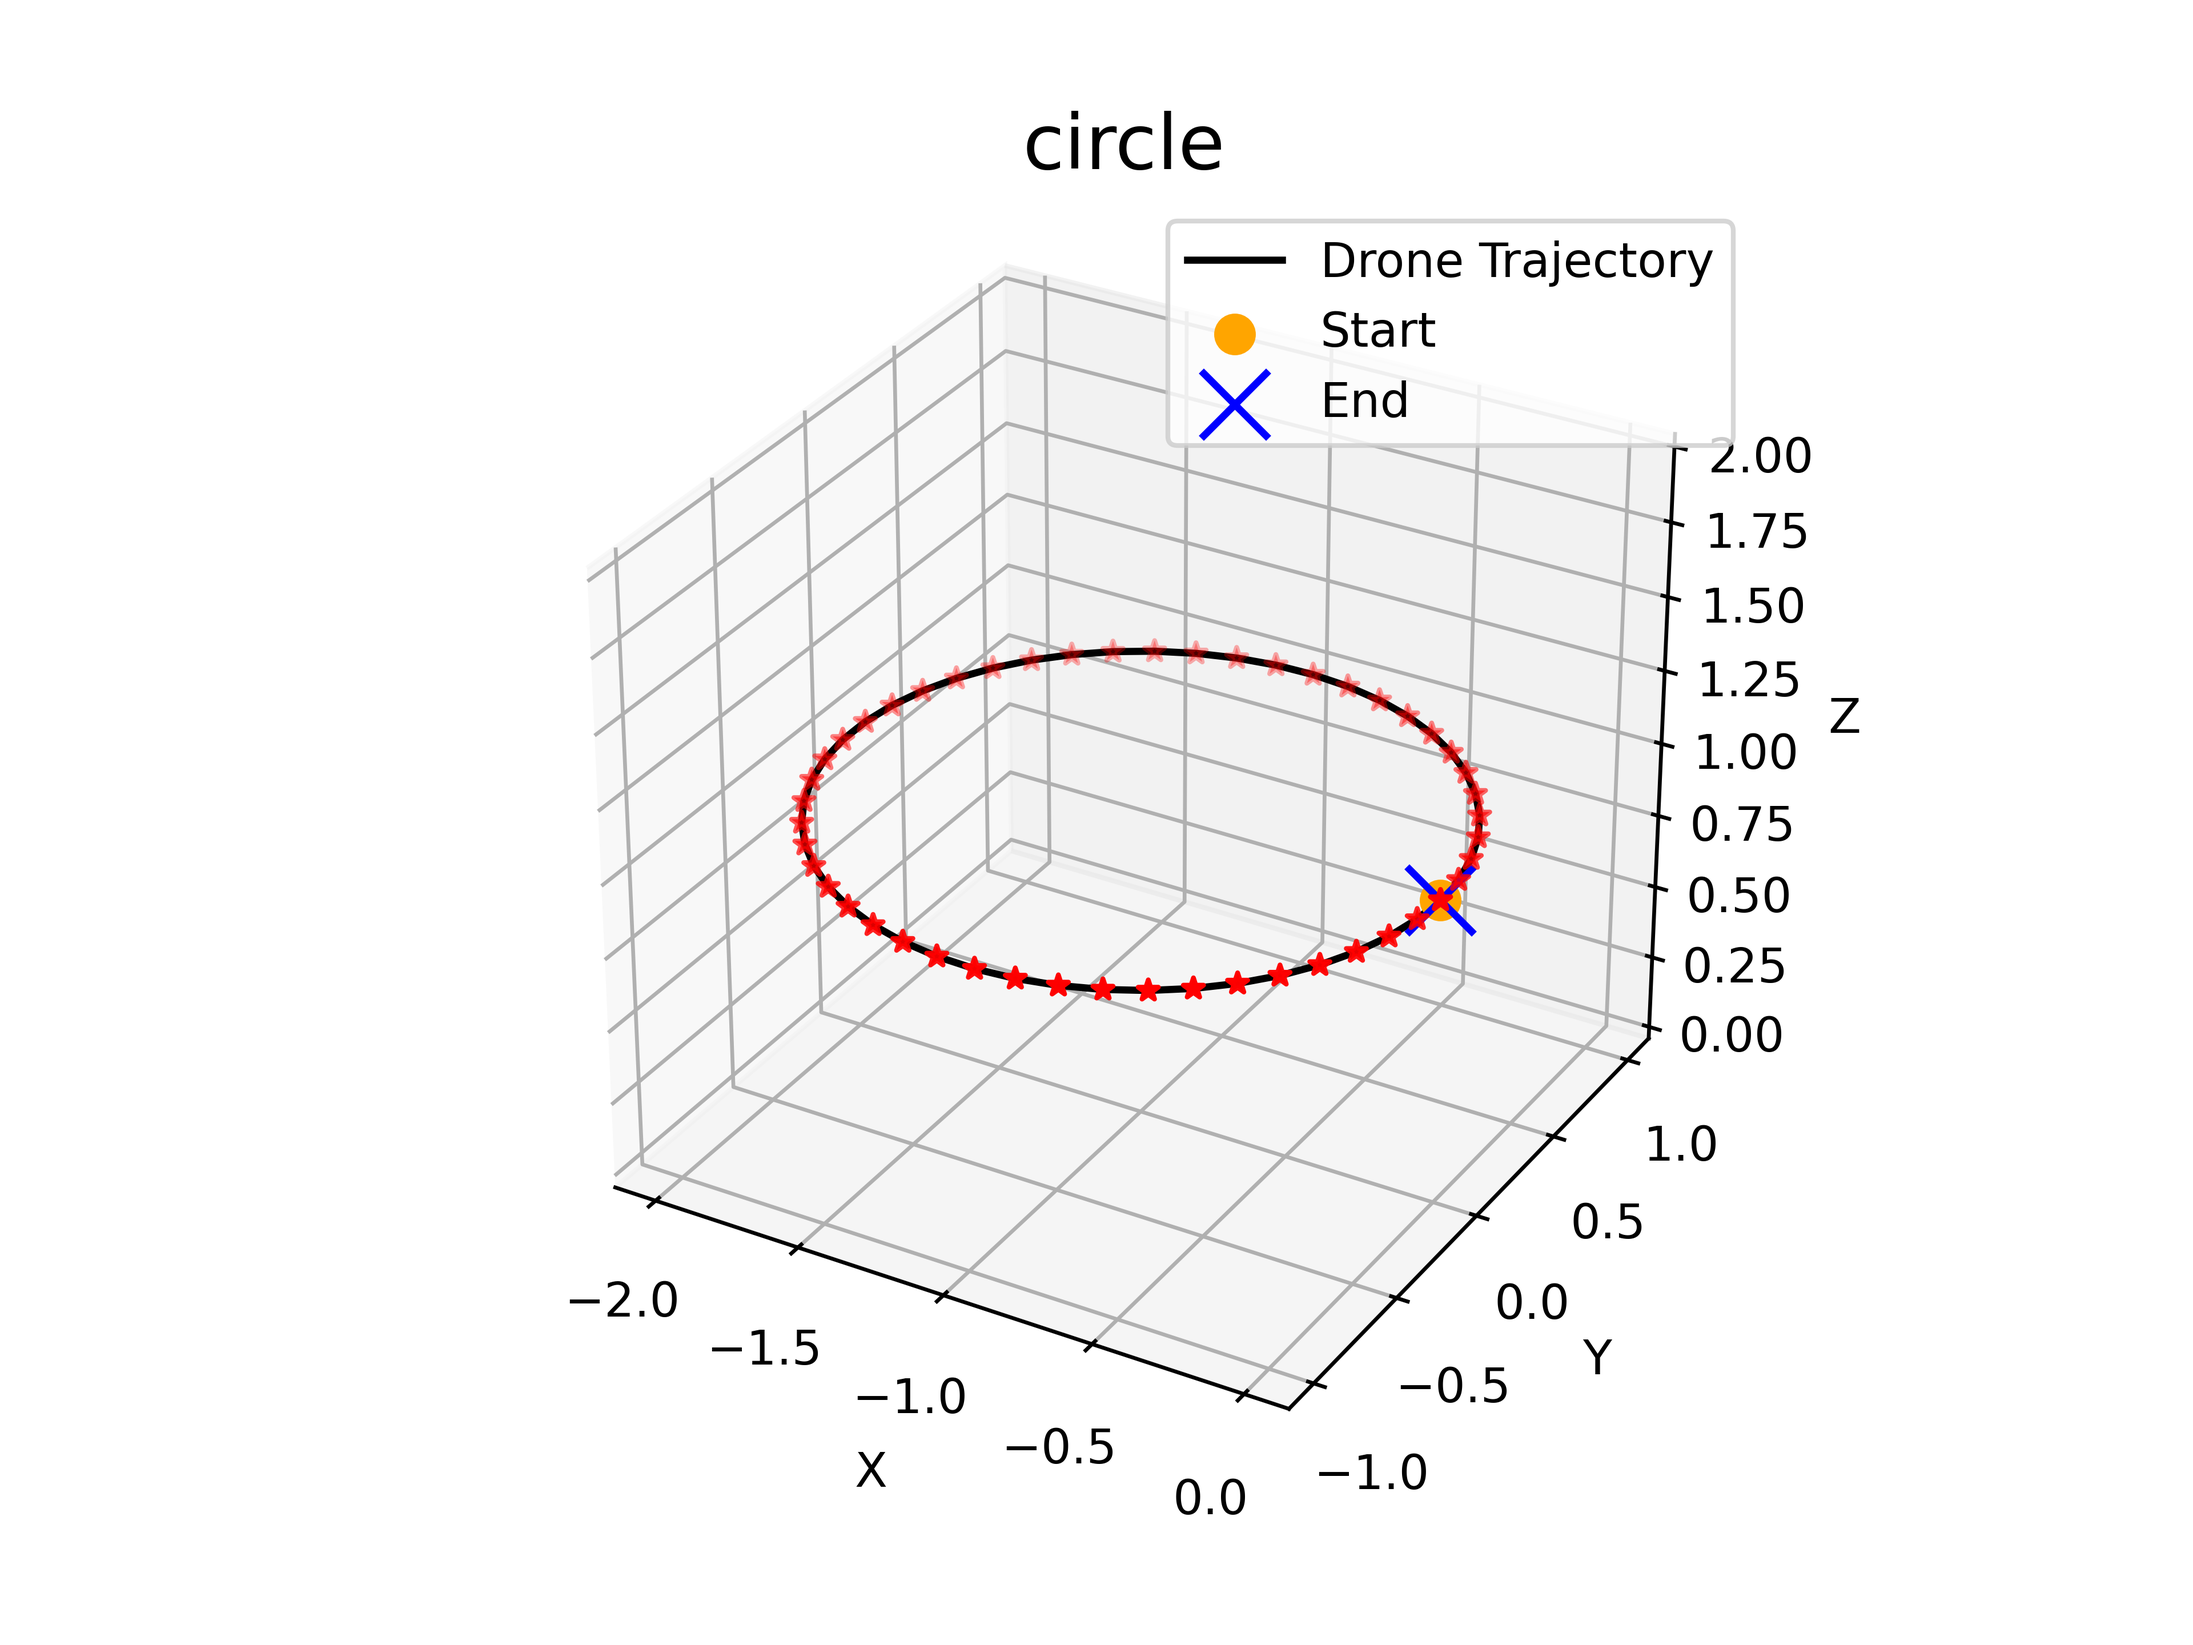
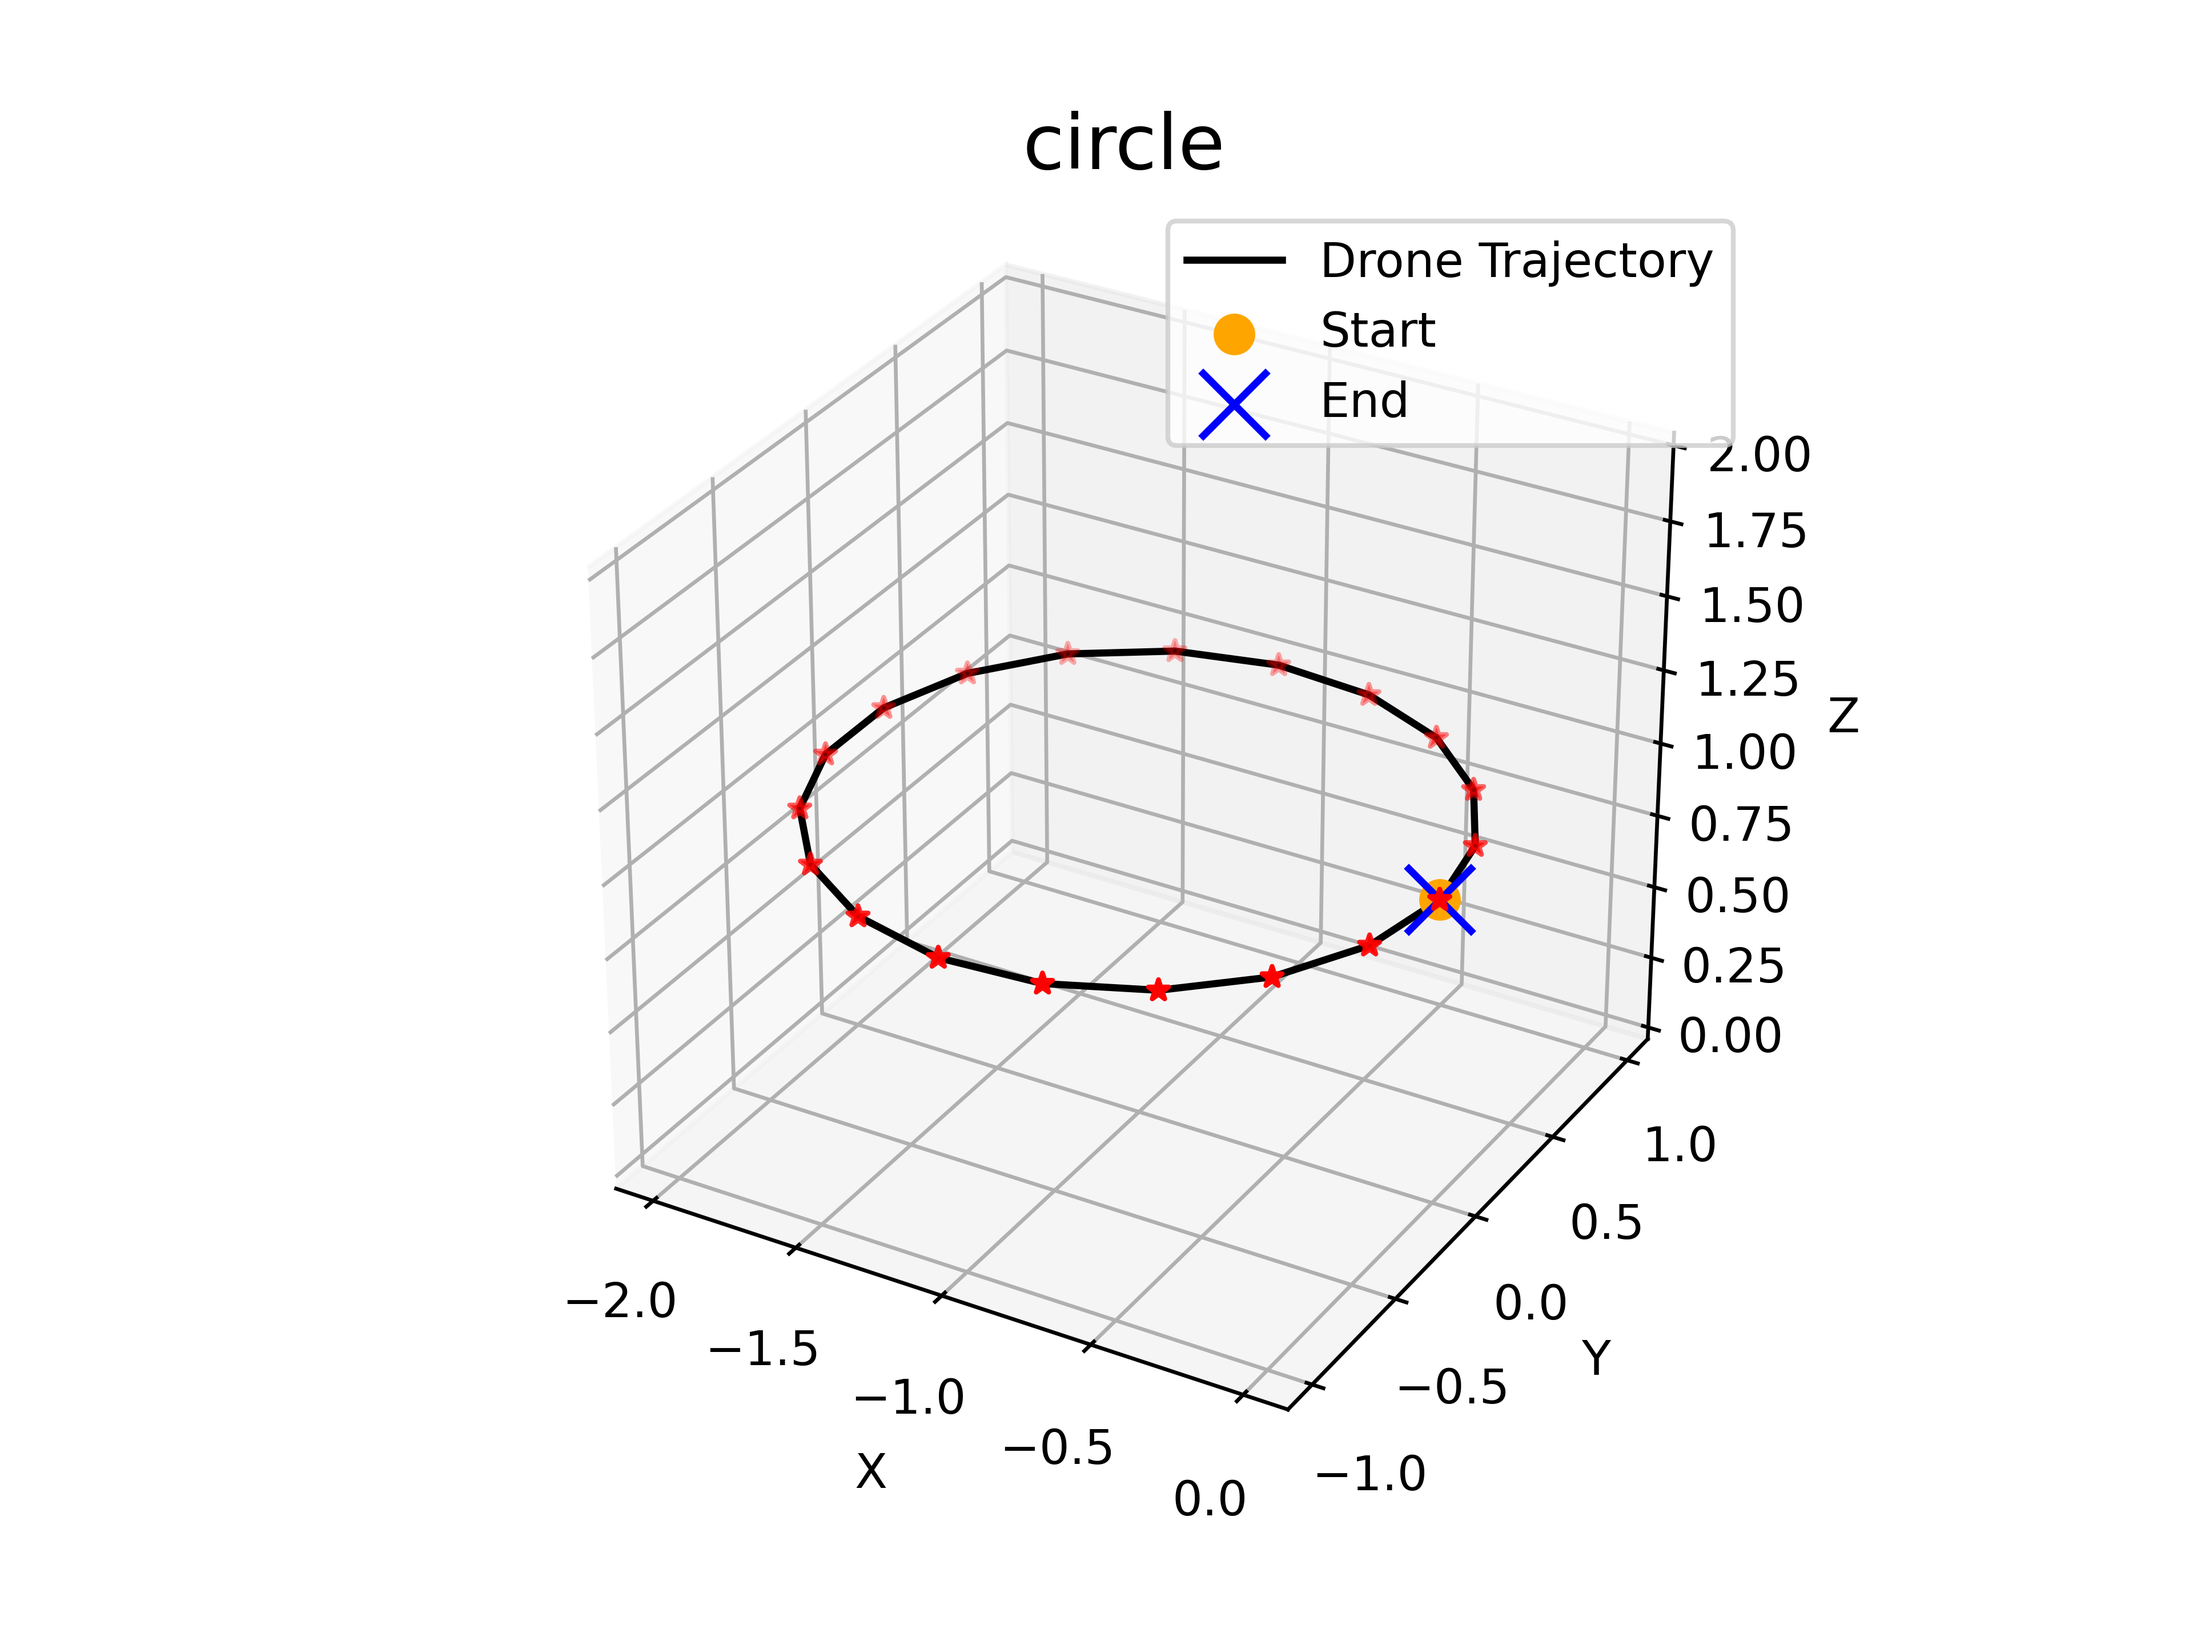
update

diff --git a/isaacgymenvs/tasks/crazyflie.py b/isaacgymenvs/tasks/crazyflie.py
@@ -113,6 +113,13 @@ class Crazyflie(VecTask):
         self.target_next_positions[:,0] = self.x[1]
         self.target_next_positions[:,1] = self.y[1]
         self.target_next_positions[:,2] = self.z[1]
+        
+        self.target_next_next_index = torch.zeros(self.num_envs, dtype=torch.int32, device=self.device)
+        self.target_next_next_positions = torch.zeros((self.num_envs, 3), device=self.device, dtype=torch.float32)
+        self.target_next_next_positions[:,0] = self.x[2]
+        self.target_next_next_positions[:,1] = self.y[2]
+        self.target_next_next_positions[:,2] = self.z[2]
+        
         self.reset_target = torch.ones(self.num_envs, dtype=torch.long, device=self.device)
         
         if self.viewer:
@@ -195,6 +202,8 @@ class Crazyflie(VecTask):
         self.progress_buf[env_ids] = 0
         self.target_index[env_ids] = -1
         self.target_next_index[env_ids] = 0
+        self.target_next_next_index[env_ids] = 1
+        # print("###############reset envs########")
         self.set_targets(env_ids)
         
     def set_targets(self,env_ids):
@@ -209,9 +218,16 @@ class Crazyflie(VecTask):
         
         self.target_next_index[env_ids] = self.target_index[env_ids] + 1
         self.target_next_index[self.target_next_index >= (self.len_of_traj-1)] = self.len_of_traj-1
-        self.target_next_positions[env_ids,0] = self.x[self.target_index[env_ids]]
-        self.target_next_positions[env_ids,1] = self.y[self.target_index[env_ids]]
-        self.target_next_positions[env_ids,2] = self.z[self.target_index[env_ids]]
+        self.target_next_positions[env_ids,0] = self.x[self.target_next_index[env_ids]]
+        self.target_next_positions[env_ids,1] = self.y[self.target_next_index[env_ids]]
+        self.target_next_positions[env_ids,2] = self.z[self.target_next_index[env_ids]]
+        
+        self.target_next_next_index[env_ids] = self.target_index[env_ids] + 2
+        self.target_next_next_index[self.target_next_next_index >= (self.len_of_traj-1)] = self.len_of_traj-1
+        self.target_next_next_positions[env_ids,0] = self.x[self.target_next_next_index[env_ids]]
+        self.target_next_next_positions[env_ids,1] = self.y[self.target_next_next_index[env_ids]]
+        self.target_next_next_positions[env_ids,2] = self.z[self.target_next_next_index[env_ids]]
+        
         # print("env_ids:",env_ids)
         # print("target_index:",self.target_index[env_ids])
         # print("next x:",self.target_root_positions[env_ids,0])
@@ -276,8 +292,9 @@ class Crazyflie(VecTask):
             verts = torch.stack([starts, ends], dim=2).cpu().numpy()
             colors = np.zeros((self.num_envs * 4, 3), dtype=np.float32)
             colors[..., 0] = 1.0
-            self.gym.clear_lines(self.viewer)
+            # self.gym.clear_lines(self.viewer)
             self.gym.add_lines(self.viewer, None, self.num_envs * 4, verts, colors)
+            self.gym.draw_viewer(self.viewer)
 
         
     def compute_observations(self):
@@ -297,6 +314,7 @@ class Crazyflie(VecTask):
             self.root_positions,
             self.target_root_positions,
             self.target_next_positions,
+            self.target_next_next_positions,
             self.root_quats,
             self.root_linvels,
             self.root_angvels,
@@ -310,26 +328,28 @@ class Crazyflie(VecTask):
 ###=========================jit functions=========================###
  
 @torch.jit.script
-def compute_crazyflie_reward(root_positions, target_root_positions, target_next_positions, root_quats, root_linvels, root_angvels, reset_buf, progress_buf, max_episode_length,reset_target):
-    # type: (Tensor, Tensor, Tensor, Tensor, Tensor, Tensor, Tensor, Tensor, float, Tensor) -> Tuple[Tensor, Tensor, Tensor]
+def compute_crazyflie_reward(root_positions, target_root_positions, target_next_positions, target_next_next_positions ,root_quats, root_linvels, root_angvels, reset_buf, progress_buf, max_episode_length,reset_target):
+    # type: (Tensor, Tensor, Tensor, Tensor, Tensor,Tensor, Tensor, Tensor, Tensor, float, Tensor) -> Tuple[Tensor, Tensor, Tensor]
 
-    # distance to last target
-    
     # distance to target
     target_dist = torch.sqrt(torch.square(target_root_positions - root_positions).sum(-1))
     
     target_dist_next = torch.sqrt(torch.square(target_next_positions - root_positions).sum(-1))
     
+    target_dist_next_next = torch.sqrt(torch.square(target_next_next_positions - root_positions).sum(-1))
     # target_dist = torch.sqrt(root_positions[..., 0] * root_positions[..., 0] +
     #                          root_positions[..., 1] * root_positions[..., 1] +
     #                          (1.3 - root_positions[..., 2]) * (1.3 - root_positions[..., 2]))    
     
     d = 0.5
-    pos_reward = 2*d / (1 + target_dist * target_dist) + d**2 / (1 + target_dist_next * target_dist_next)
-    # print("pos_reward: ", pos_reward)
+    pos_reward = 1 / (target_dist * target_dist) + d / (target_dist_next * target_dist_next) + d*d / (target_dist_next_next * target_dist_next_next)
+    # pos_reward = 1 / (1 + target_dist) + d / (1 + target_dist_next) + d*d / (1 + target_dist_next_next)
+    
 
-    # print("target_root_positions: ", target_root_positions)
     # print("root_positions: ", root_positions)
+    # print("target_root_positions: ", target_root_positions)
+    # print("target_next_positions: ", target_next_positions)
+    # print("target_next_next_positions: ", target_next_next_positions)
     # print("target_dist: ", target_dist)
     # uprightness
     ups = quat_axis(root_quats, 2)
@@ -340,17 +360,22 @@ def compute_crazyflie_reward(root_positions, target_root_positions, target_next_
     spinnage = torch.abs(root_angvels[..., 2])
     spinnage_reward = 1.0 / (1.0 + spinnage * spinnage)
 
-    # combined reward
-    # uprigness and spinning only matter when close to the target
-    reward = pos_reward
+    # velocity
+    velocity = torch.norm(root_linvels, dim=-1)
+
+    # print("pos_reward: ", pos_reward)
+    # print("root_linvels: ", root_linvels)
+    # print("pos_reward: ", pos_reward)
+    # print("velocity1: ", velocity)
+    reward =  pos_reward + 0.1*pos_reward*velocity
     # reward = pos_reward + pos_reward * (up_reward + spinnage_reward)
     # print("reward:",reward)
 
     # resets due to misbehavior
     ones = torch.ones_like(reset_buf)
     die = torch.zeros_like(reset_buf)
-    die = torch.where(target_dist > 2, ones, die)
-    die = torch.where(root_positions[..., 2] < 0.7, ones, die)
+    die = torch.where(target_dist > 1, ones, die)
+    die = torch.where(root_positions[..., 2] < 0.5, ones, die)
     
     # resets due to episode length
     reset = torch.where(progress_buf >= max_episode_length - 1, ones, die)

diff --git a/isaacgymenvs/tasks/torch_crazyflie_ppo.py b/isaacgymenvs/tasks/torch_crazyflie_ppo.py
@@ -61,7 +61,7 @@ class Shared(GaussianMixin, DeterministicMixin, Model):
 #                         rl_device="cuda:0",
 #                         graphics_device_id=0,
 #                         headless=True)
-env = load_isaacgym_env_preview4(task_name="Crazyflie", num_envs = 50) # num_envs = 5000
+env = load_isaacgym_env_preview4(task_name="Crazyflie", num_envs = 1000) # num_envs = 5000
 
 env = wrap_env(env)
 
@@ -83,12 +83,12 @@ models["value"] = models["policy"]  # same instance: shared model
 # configure and instantiate the agent (visit its documentation to see all the options)
 # https://skrl.readthedocs.io/en/latest/api/agents/ppo.html#configuration-and-hyperparameters
 cfg = PPO_DEFAULT_CONFIG.copy()
-cfg["rollouts"] = 24  # memory_size 8
+cfg["rollouts"] = 16  # memory_size 8
 cfg["learning_epochs"] = 8 # 8
 cfg["mini_batches"] = 4  # 8 * 8192 / 16384 = 4
 cfg["discount_factor"] = 0.99 # 0.99
 cfg["lambda"] = 0.95
-cfg["learning_rate"] = 1e-3 # 1e-3
+cfg["learning_rate"] = 1e-4 # 1e-3
 cfg["learning_rate_scheduler"] = KLAdaptiveRL
 cfg["learning_rate_scheduler_kwargs"] = {"kl_threshold": 0.016}
 cfg["random_timesteps"] = 0
@@ -106,8 +106,8 @@ cfg["state_preprocessor_kwargs"] = {"size": env.observation_space, "device": dev
 cfg["value_preprocessor"] = RunningStandardScaler
 cfg["value_preprocessor_kwargs"] = {"size": 1, "device": device}
 # logging to TensorBoard and write checkpoints (in timesteps)
-cfg["experiment"]["write_interval"] = 5000
-cfg["experiment"]["checkpoint_interval"] = 5000
+cfg["experiment"]["write_interval"] = 50000
+cfg["experiment"]["checkpoint_interval"] = 50000
 cfg["experiment"]["directory"] = "isaacgymenvs/runs/Crazyflie"
 
 agent = PPO(models=models,
@@ -119,7 +119,7 @@ agent = PPO(models=models,
 
 
 # configure and instantiate the RL trainer
-cfg_trainer = {"timesteps":50000, "headless": True}
+cfg_trainer = {"timesteps":1000000, "headless": True}
 trainer = SequentialTrainer(cfg=cfg_trainer, env=env, agents=agent)
 
 # start training
@@ -134,7 +134,7 @@ trainer = SequentialTrainer(cfg=cfg_trainer, env=env, agents=agent)
 # # download the trained agent's checkpoint from Hugging Face Hub and load it
 # # path = download_model_from_huggingface("skrl/IsaacGymEnvs-Quadcopter-PPO", filename="agent.pt")
 
-path = "isaacgymenvs/runs/Crazyflie/24-03-22_08-50-15-307008_PPO/checkpoints/best_agent.pt"
-agent.load(path)
-trainer.eval()
-# trainer.train()
+# path = "isaacgymenvs/runs/Crazyflie/24-03-22_08-50-15-307008_PPO/checkpoints/best_agent.pt"
+# agent.load(path)
+# trainer.eval()
+trainer.train()

diff --git a/isaacgymenvs/tasks/trajectory/circle.py b/isaacgymenvs/tasks/trajectory/circle.py
@@ -50,7 +50,7 @@ def plot_3d_trajectory(x, y, z):
     plt.show()
 
 
-num_points = 50
+num_points = 20
 x, y, z = generate_circle_points(num_points)
 
 # plot_2d_trajectory(x, y)
